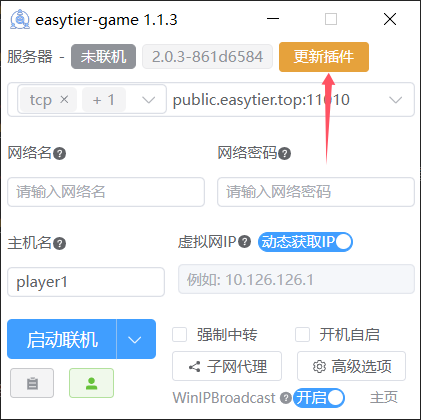
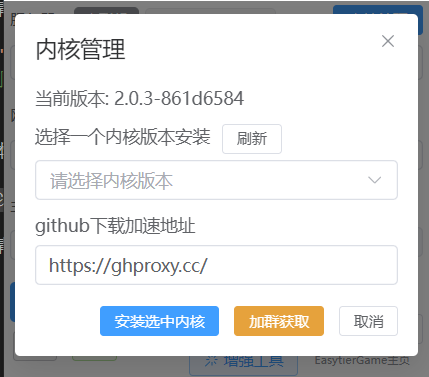
文档更新

diff --git a/README.md b/README.md
@@ -28,7 +28,7 @@ Releases： [https://github.com/EasyTier/EasytierGame/releases](https://github.c
 - 如果还是无法满足您的需求，可以使用配置文件进行启动，具体如何配置，可以查看文档[配置文件](/guide/network/config-file.html)
     ![game-step5](/assets/game-step5.png)
 
-- easytier内核升级后，可以点击更新插件按钮就可以进行更新，但是需要出国，如果无法更新，可以在群里获取
+- easytier内核升级后，可以点击内核管理按钮就可以进行内核切换和更新，但是需要出国或者github加速链接，如果无法更新，可以在群里获取
     ![game-step6](/assets/game-step6.png)
 
 - 1.1.4更新了 配置分享功能 可以与朋友之间分享配置，方便联机
@@ -45,6 +45,9 @@ Releases： [https://github.com/EasyTier/EasytierGame/releases](https://github.c
 **需要注意的是，如果config.json存在，每次启动easytierGame默认按照config.json的配置为准**
 **解压zip后你可以查看 easytier/config_template.json 里的注释进行配置**
 ![game-step10](/assets/game-step10.png)
+
+- 1.2.3新增了帮助.txt 位于“easytier/帮助.txt" 内含 无法打开界面和卸载EasytierGame的办法，新增 "easytier/clear_local_data.bat" 用于清除easytierGame的本地缓存数据（需要管理员模式运行）
+![game-step11](/assets/game-step11.png)
 
 ## 特性
 
